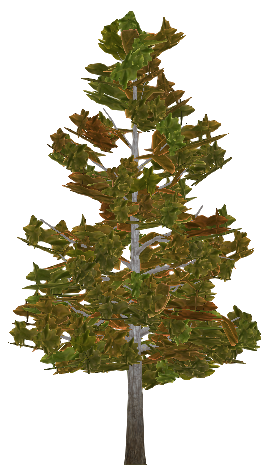
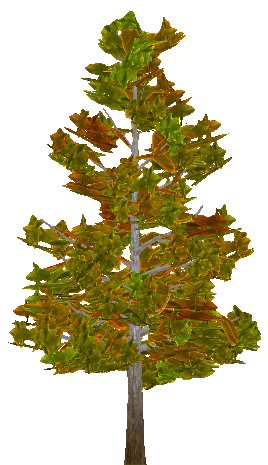
Trees now perfect

Changed region(s): [[0.0299, 0.0, 0.9851, 0.843]]

diff --git a/tp3/objs/MyBillboard.js b/tp3/objs/MyBillboard.js
@@ -1,6 +1,6 @@
 import * as THREE from "three";
 
-class MyBillboard extends THREE.Object3D {
+export class MyBillboard extends THREE.Object3D {
   constructor(texturePathList) {
     super();
     const randomIndex = Math.floor(Math.random() * texturePathList.length);
@@ -8,6 +8,7 @@ class MyBillboard extends THREE.Object3D {
 
     const loader = new THREE.TextureLoader();
     const texture = loader.load(selectedTexturePath);
+    texture.colorSpace = THREE.SRGBColorSpace;
 
     // Create a billboard mesh (for example, a simple plane)
     const billboardGeometry = new THREE.PlaneGeometry(4, 7);
@@ -23,11 +24,9 @@ class MyBillboard extends THREE.Object3D {
     this.add(billboardMesh);
   }
 
-  update(cam) {
-    this.billboardMesh.lookAt(cam);
+  update(camPos) {
+    let pos = camPos.clone();
+    pos.y = 0;
+    this.billboardMesh.lookAt(pos);
   }
 }
-
-MyBillboard.prototype.isGroup = true;
-
-export { MyBillboard };

diff --git a/tp3/MyContents.js b/tp3/MyContents.js
@@ -280,6 +280,7 @@ export class MyContents {
     if (this.app.activeCameraName === "FirstPerson") this.playerCam.update();
     if (this.app.activeCameraName === "Debug") this.debugCam.update();
 
+    // if the game has started and is not paused update the following objects
     if (!this.app.MyHUD.isPaused()) {
       // HUD UPDATE
       if (this.playerCam) {
